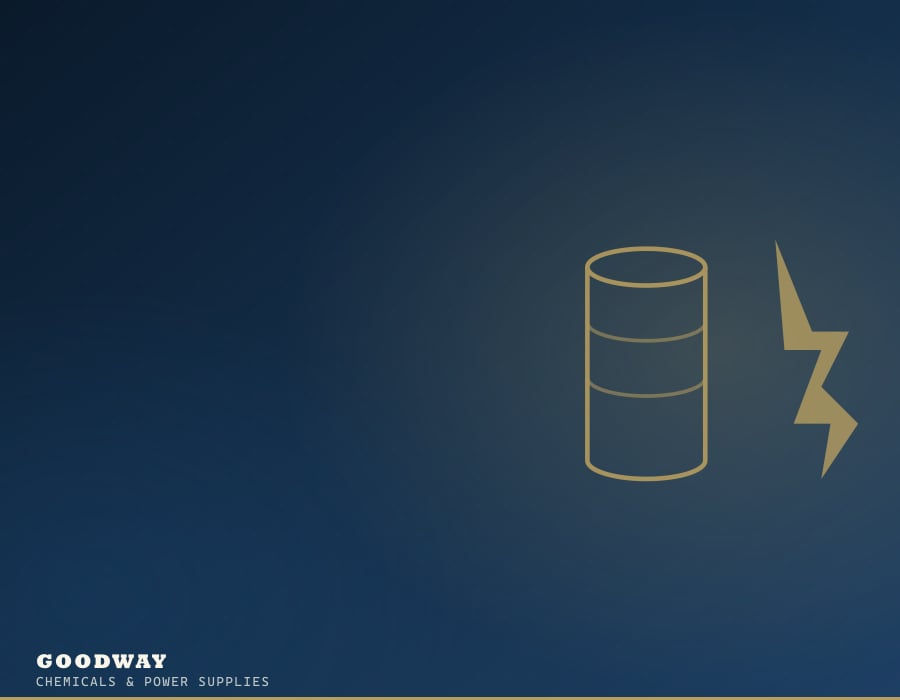
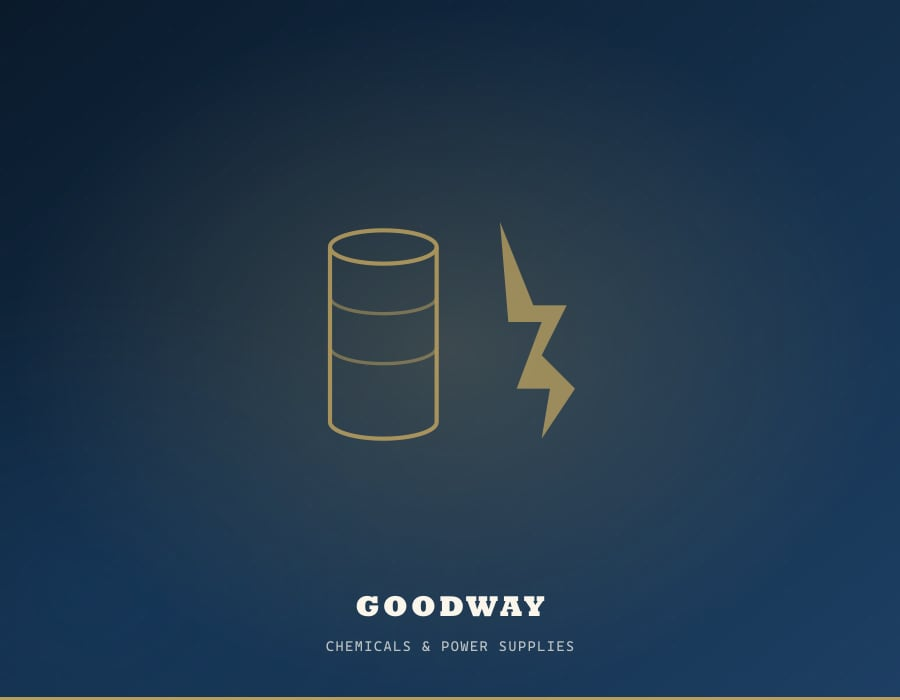
Mobile polish + safer body-reveal scope + centred filler wordmarks
Three fixes surfaced by a mobile pass on a 430px viewport + a desktop
review of the new filler tiles:

1. Body-reveal rule was site-wide
   `html.gw-intro-lock body > *:not(.gw-intro) { opacity: 0 }` applied on
   EVERY page but the intro JS only runs on the homepage. If a lingering
   `gw-intro-lock` class ever reached an inner page (bfcache restore, a
   future hook, or QA tooling) the viewport painted pure navy. Scoped the
   blackout to `html.gw-home.gw-intro-lock` and added a belt-and-braces
   `html:not(.gw-home) body > * { opacity: 1 !important }` so inner pages
   can never go dark. `gw-home` is set by the existing pre-boot script in
   `index.html`.

2. Filler wordmarks were clipping
   The "GOODWAY · <label>" mark was anchored bottom-left at `x = w*0.04`.
   When the asset was cropped by `object-fit: cover` into a narrower tile
   (home "Our Work" tall/square fillers) the left edge got sliced off and
   "GOODWAY" rendered as "…DWAY". Re-rendered all 21 fillers with a
   centred wordmark in the safe zone — stays inside any crop.

3. Small-viewport polish
   - hero stats stack at <768px instead of cramming into 3 columns
   - `benefit-img`, `our-work-img-*`, gallery tiles get predictable
     aspect ratios on narrow phones
   - `gw-whoweare__badge` pulled inward so it doesn't bleed off-screen
   - tap targets clamped to 48×48 on whatsapp + back-to-top
   - `html, body { max-width: 100%; overflow-x: hidden }` as a global
     belt against any errant wide child
[…]

diff --git a/css/goodway-enhance.css b/css/goodway-enhance.css
@@ -2895,9 +2895,16 @@ html.gw-intro-lock { overflow: hidden !important; }
   100% { opacity: 1; transform: translateY(0); }
 }
 
-/* Content under the overlay fades/eases up once the intro leaves */
-html.gw-intro-lock body > *:not(.gw-intro) { transform: translateY(8px); opacity: 0; transition: none; }
+/* Content under the overlay fades/eases up once the intro leaves.
+   Scoped to the homepage only — the intro JS only ever runs there, and
+   applying `opacity: 0` on inner pages has caused mobile devices to paint
+   an all-navy screen when a stale lock class lingered across a bfcache
+   navigation. */
+html.gw-intro-lock.gw-home body > *:not(.gw-intro) { transform: translateY(8px); opacity: 0; transition: none; }
 html.gw-intro-done body > *:not(.gw-intro) { transform: none; opacity: 1; transition: opacity 0.5s var(--gw-ease), transform 0.5s var(--gw-ease); }
+/* Hard safety net for inner pages: body children are ALWAYS visible,
+   regardless of any legacy class. */
+html:not(.gw-home) body > *:not(.gw-intro) { opacity: 1 !important; transform: none !important; }
 
 /* Safety net: the scroll-cue must never render outside the intro
    context on the homepage. On any inner page (or after intro completes)
@@ -2911,6 +2918,94 @@ html:not(.gw-intro-lock) .gw-scroll-cue { display: none !important; }
   .w-nav-button,
   .menu-button.w-nav-button,
   .w-nav-overlay { display: none !important; }
+}
+
+/* ==========================================================================
+   Mobile accessibility hardening (≤ 640px)
+   - No horizontal scroll
+   - Hero stats stack
+   - 44×44 minimum tap target on icon buttons
+   - Whats-app + back-to-top don't overlap body content
+   - Filler images keep a readable aspect when the wrapper is narrow
+   ========================================================================== */
+html, body { max-width: 100%; overflow-x: hidden; }
+
+@media (max-width: 767px) {
+  /* Industries hero stats — collapse 3-col into a vertical stack so each
+     number + label gets its own row instead of cramped 3x on a 430px viewport. */
+  .gw-industries-hero__stats {
+    grid-template-columns: 1fr;
+  }
+  .gw-industries-hero__stat {
+    border-right: 0;
+    border-bottom: 1px solid var(--gw-border);
+    padding: 16px 20px;
+  }
+  .gw-industries-hero__stat:last-child { border-bottom: 0; }
+
+  /* Homepage "Our Work" — the filler tiles were cropping too tight and
+     chopping the Goodway wordmark. Give each tile a generous, predictable
+     aspect and let `object-fit: cover` center on the glyph. */
+  .our-work-img-left,
+  .our-work-img-right { width: 100%; height: auto; }
+  .our-work-img-left { aspect-ratio: 3 / 4; }
+  .our-work-img-top  { width: 100%; aspect-ratio: 4 / 3; height: auto; }
+
+  /* Gallery tiles (homepage) — ensure 2-col layout doesn't compress too far */
+  .gallery-item { width: 100%; height: auto; aspect-ratio: 3 / 4; }
+
+  /* Who-we-are collage — keep the overlapping split but pull badges inward
+     so they don't collide with the right edge on a 430px device. */
+  .gw-whoweare__collage { max-width: 100%; }
+  .gw-whoweare__badge {
+    left: auto;
+    right: 0;
+    bottom: -18px;
+    min-width: 0;
+    padding: 14px 18px;
+    font-size: 12px;
+  }
+
+  /* Benefit-img hero — 16:9 on narrow viewports wastes height; 5:3 reads
+     better and the glyph stays centred. */
+  .benefit-img { width: 100%; height: auto; aspect-ratio: 5 / 3; }
+
+  /* Tap targets */
+  .gw-whatsapp,
+  .gw-to-top {
+    min-width: 48px;
+    min-height: 48px;
+  }
+
+  /* Keep floating widgets out of the way of the last content block */
+  .gw-whatsapp { bottom: 18px; left: 14px; }
+  .gw-to-top   { bottom: 18px; right: 14px; }
+
+  /* Nav logo is too wide on narrow phones */
+  .navbar .logo-brand img { width: 140px !important; height: auto; }
+
+  /* Principals band cells — ensure they reflow cleanly */
+  .gw-principals-band__item,
+  .gw-principals-row__cell {
+    aspect-ratio: auto;
+    padding: 14px 16px;
+  }
+}
+
+@media (max-width: 479px) {
+  /* Very narrow — push text down a rung to preserve line-count */
+  .gw-industries-hero__title,
+  .gw-whoweare__title {
+    font-size: clamp(1.6rem, 7vw, 2rem);
+  }
+  .gw-industries-hero { padding: 3rem 0 2rem; }
+  .gw-industries-hero__lede,
+  .gw-whoweare__lede { font-size: 15px; }
+
+  /* The tall "industries" tile on the homepage is too tall on a 430px
+     portrait — cap its aspect so the CTA below stays in view. */
+  .gallery-right .image-placeholder,
+  .gallery-right .gw-img-slot--tall { aspect-ratio: 4 / 5; }
 }
 
 /* Scroll-cue chevron shown briefly after the intro completes */

diff --git a/scripts/build-section-fillers.js b/scripts/build-section-fillers.js
@@ -168,10 +168,18 @@ const G = {
 
 /* ---- compose ------------------------------------------------------------ */
 function xml(s) { return String(s).replace(/&/g, '&amp;').replace(/</g, '&lt;').replace(/>/g, '&gt;'); }
-function compose({ w, h, glyph, label, orient = 'right' }) {
-  const cx = orient === 'right' ? w * 0.8 : w * 0.5;
-  const cy = h * 0.5;
+function compose({ w, h, glyph, label, orient = 'center' }) {
+  /* Always centre the glyph + wordmark so that when <img object-fit:cover>
+     crops the asset to a narrower container, the brand mark stays visible
+     inside the safe zone. */
+  const cx = orient === 'right' ? w * 0.72 : w * 0.5;
+  const cy = h * 0.46;
   const safeLabel = xml(String(label).toUpperCase());
+  const cw = Math.min(w, h);                    /* centred wordmark width reference */
+  const wordY = h * 0.88;
+  const subY  = h * 0.93;
+  const wordSize = Math.max(14, Math.round(cw * 0.042));
+  const subSize  = Math.max(9,  Math.round(cw * 0.020));
   return `<?xml version="1.0" encoding="UTF-8"?>
 <svg xmlns="http://www.w3.org/2000/svg" width="${w}" height="${h}" viewBox="0 0 ${w} ${h}">
   <defs>
@@ -198,14 +206,14 @@ function compose({ w, h, glyph, label, orient = 'right' }) {
   <rect width="${w}" height="${h}" fill="url(#aura)"/>
 
   <!-- glyph -->
-  <g transform="translate(${cx},${cy}) scale(${Math.min(w,h)/380})" color="${PALETTE.gold}" opacity="0.78">
+  <g transform="translate(${cx},${cy}) scale(${Math.min(w,h)/420})" color="${PALETTE.gold}" opacity="0.78">
     ${glyph}
   </g>
 
-  <!-- wordmark bottom-left -->
-  <g font-family="'Plus Jakarta Sans', sans-serif" fill="${PALETTE.ivory}">
-    <text x="${Math.max(24, w*0.04)}" y="${h - 32}" font-size="${Math.max(12, Math.round(h*0.028))}" font-weight="800" letter-spacing="2">GOODWAY</text>
-    <text x="${Math.max(24, w*0.04)}" y="${h - 14}" font-size="${Math.max(10, Math.round(h*0.018))}" font-weight="400" letter-spacing="1.4" opacity="0.75">${safeLabel}</text>
+  <!-- centred wordmark — stays visible even when object-fit:cover crops -->
+  <g font-family="'Plus Jakarta Sans', sans-serif" fill="${PALETTE.ivory}" text-anchor="middle">
+    <text x="${w/2}" y="${wordY}" font-size="${wordSize}" font-weight="800" letter-spacing="3">GOODWAY</text>
+    <text x="${w/2}" y="${subY}" font-size="${subSize}" font-weight="400" letter-spacing="1.4" opacity="0.72">${safeLabel}</text>
   </g>
 
   <!-- gold hairline bottom -->

diff --git a/index.html b/index.html
@@ -22,7 +22,7 @@
   <script>!function(o,c){var n=c.documentElement,t=" w-mod-";n.className+=t+"js",("ontouchstart"in o||o.DocumentTouch&&c instanceof DocumentTouch)&&(n.className+=t+"touch")}(window,document);</script>
   <!-- Intro overlay pre-paint guard — synchronous, must run before <body> starts rendering -->
   <style id="gw-intro-preboot">html.gw-intro-pending{overflow:hidden}html.gw-intro-pending body{background:#faf6ec}html.gw-intro-pending body > *{opacity:0}</style>
-  <script>(function(){try{var p=location.pathname.replace(/^\//,'');var isHome=p===''||/^index\.html$/i.test(p);var rm=matchMedia('(prefers-reduced-motion: reduce)').matches;var seen=sessionStorage.getItem('gw-intro-seen');var force=/[?&]intro=1\b/.test(location.search);if(isHome&&!rm&&(force||!seen)){document.documentElement.classList.add('gw-intro-pending');/* Safety: clear the guard after 4s in case JS fails to load */setTimeout(function(){document.documentElement.classList.remove('gw-intro-pending');},4000);}}catch(e){}})();</script>
+  <script>(function(){try{var p=location.pathname.replace(/^\//,'');var isHome=p===''||/^index\.html$/i.test(p);if(isHome)document.documentElement.classList.add('gw-home');var rm=matchMedia('(prefers-reduced-motion: reduce)').matches;var seen=sessionStorage.getItem('gw-intro-seen');var force=/[?&]intro=1\b/.test(location.search);if(isHome&&!rm&&(force||!seen)){document.documentElement.classList.add('gw-intro-pending');/* Safety: clear the guard after 4s in case JS fails to load */setTimeout(function(){document.documentElement.classList.remove('gw-intro-pending');},4000);}}catch(e){}})();</script>
   <noscript><style>html.gw-intro-pending{overflow:auto !important}html.gw-intro-pending body > *{opacity:1 !important}</style></noscript>
   <link href="images/goodway-logo.png" rel="shortcut icon" type="image/x-icon">
   <link href="images/goodway-logo.png" rel="apple-touch-icon">

diff --git a/js/goodway-enhance.js b/js/goodway-enhance.js
@@ -21,7 +21,7 @@
      after replacing any file under /images/ or /assets/images/ to force
      a one-shot refresh. Applies to <img src>, <img data-src>, and
      <source srcset> within <picture>. */
-  var IMG_VER  = '2026-04-23-filler-sweep';
+  var IMG_VER  = '2026-04-23-mobile-polish';
 
   /* ---------- SEO / marketing hook-ups ---------------------------------
      Paste tokens here once the client registers each service. Empty
